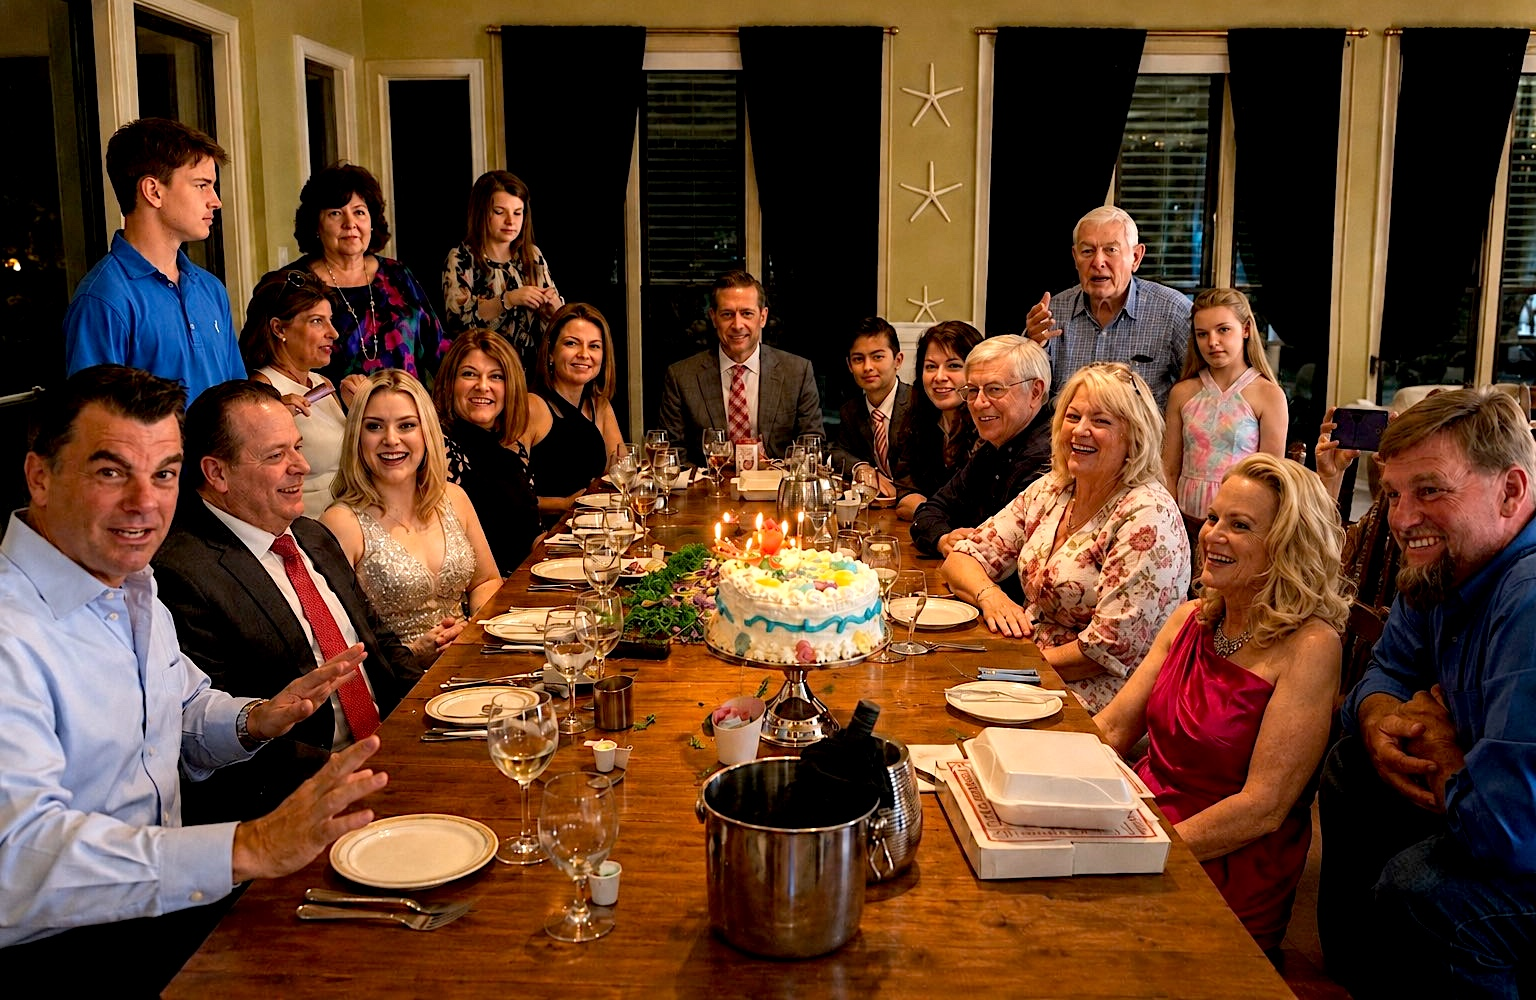
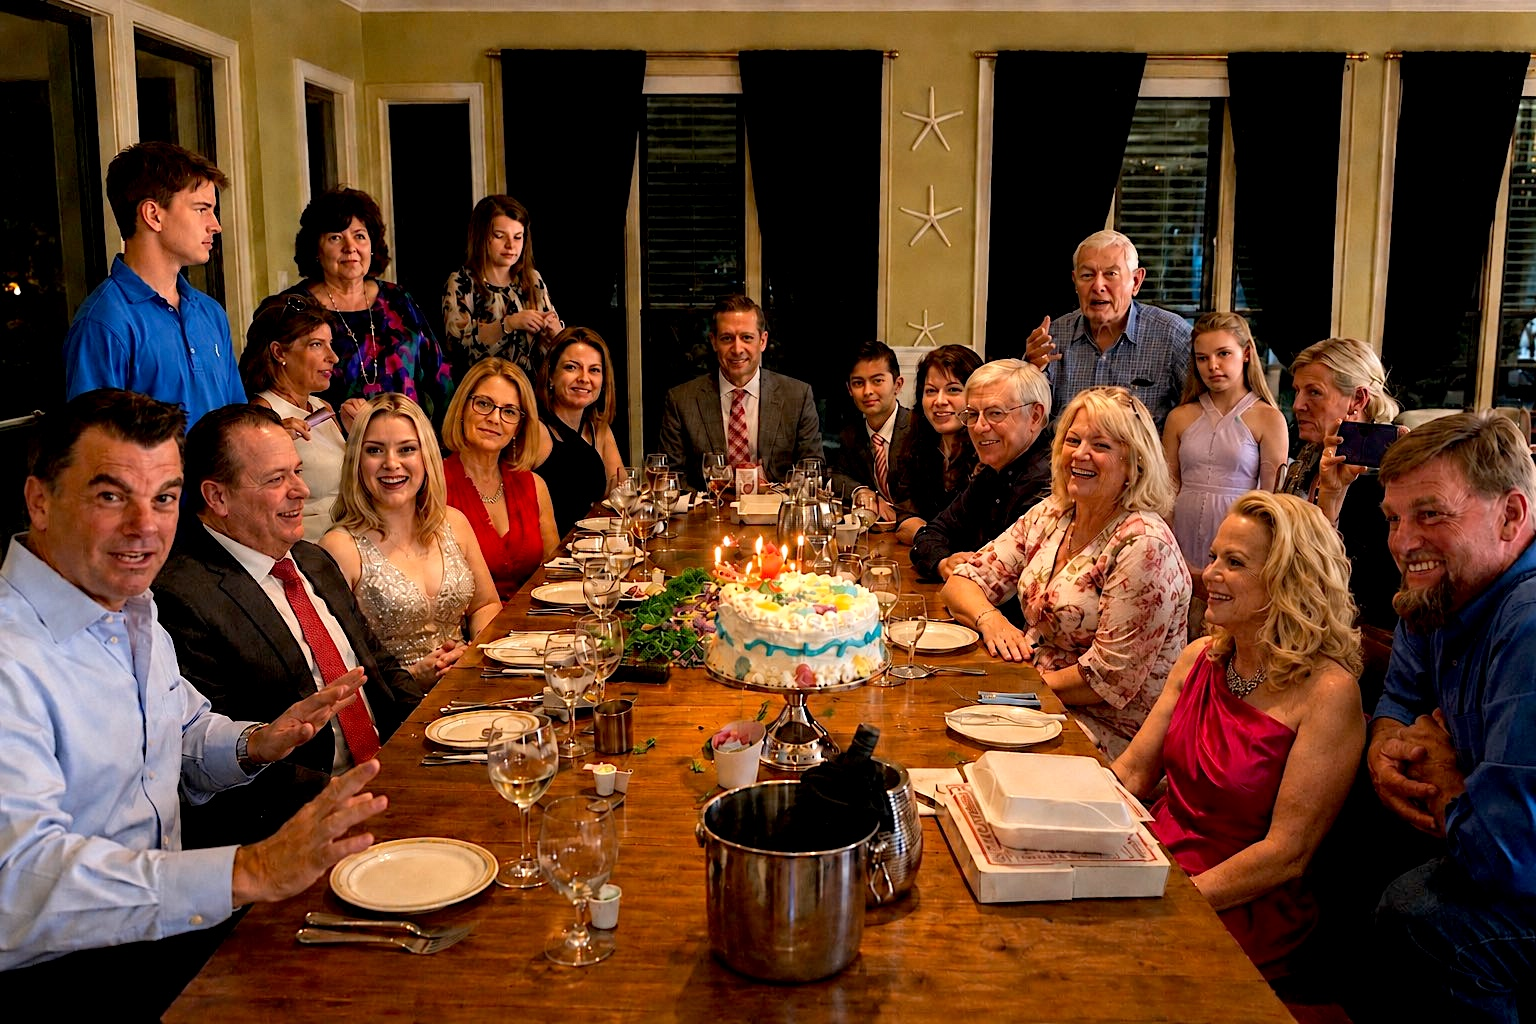
On /kim: brightened/cleaned version of Kim's sent dining photo (real, 3:2), cache-bust, per Kim

diff --git a/rebrand/kim/index.html b/rebrand/kim/index.html
@@ -69,7 +69,7 @@
   /* ---- two-column features ---- */
   .feature { max-width: 1200px; margin: 0 auto; padding-top: clamp(70px, 12vw, 130px); padding-bottom: clamp(70px, 12vw, 130px); display: grid; grid-template-columns: 1fr 1fr; gap: clamp(40px, 7vw, 90px); align-items: center; }
   .feature .img-fill { width: 100%; height: 520px; }
-  .feature .img-fill.events-photo { height: auto; aspect-ratio: 1536 / 1000; align-self: center; }
+  .feature .img-fill.events-photo { height: auto; aspect-ratio: 3 / 2; align-self: center; }
   .story-img-wrap { position: relative; }
   .story-img { width: 100%; height: 620px; }
   .badge { position: absolute; right: -28px; bottom: -28px; background: #BE9A4E; color: #14242F; padding: 26px 30px; max-width: 230px; }
@@ -353,7 +353,7 @@ src="https://www.facebook.com/tr?id=1988533432098166&ev=PageView&noscript=1"
     <p class="body" style="color: #3D4D58; margin-bottom: 36px;">Tell us the occasion. We&rsquo;ll take care of the rest.</p>
     <a href="tel:7275961515" class="btn-gold" style="font-size: 13px; padding: 16px 36px;">TELL US THE OCCASION &middot; (727)&nbsp;596&#8209;1515</a>
   </div>
-  <div class="img-fill events-photo" style="background-image: url('../assets/events-celebration-bright.jpg');"></div>
+  <div class="img-fill events-photo" style="background-image: url('../assets/events-celebration-bright.jpg?v=2');"></div>
 </div>
 
 <!-- ============ FOOTER / VISIT ============ -->
